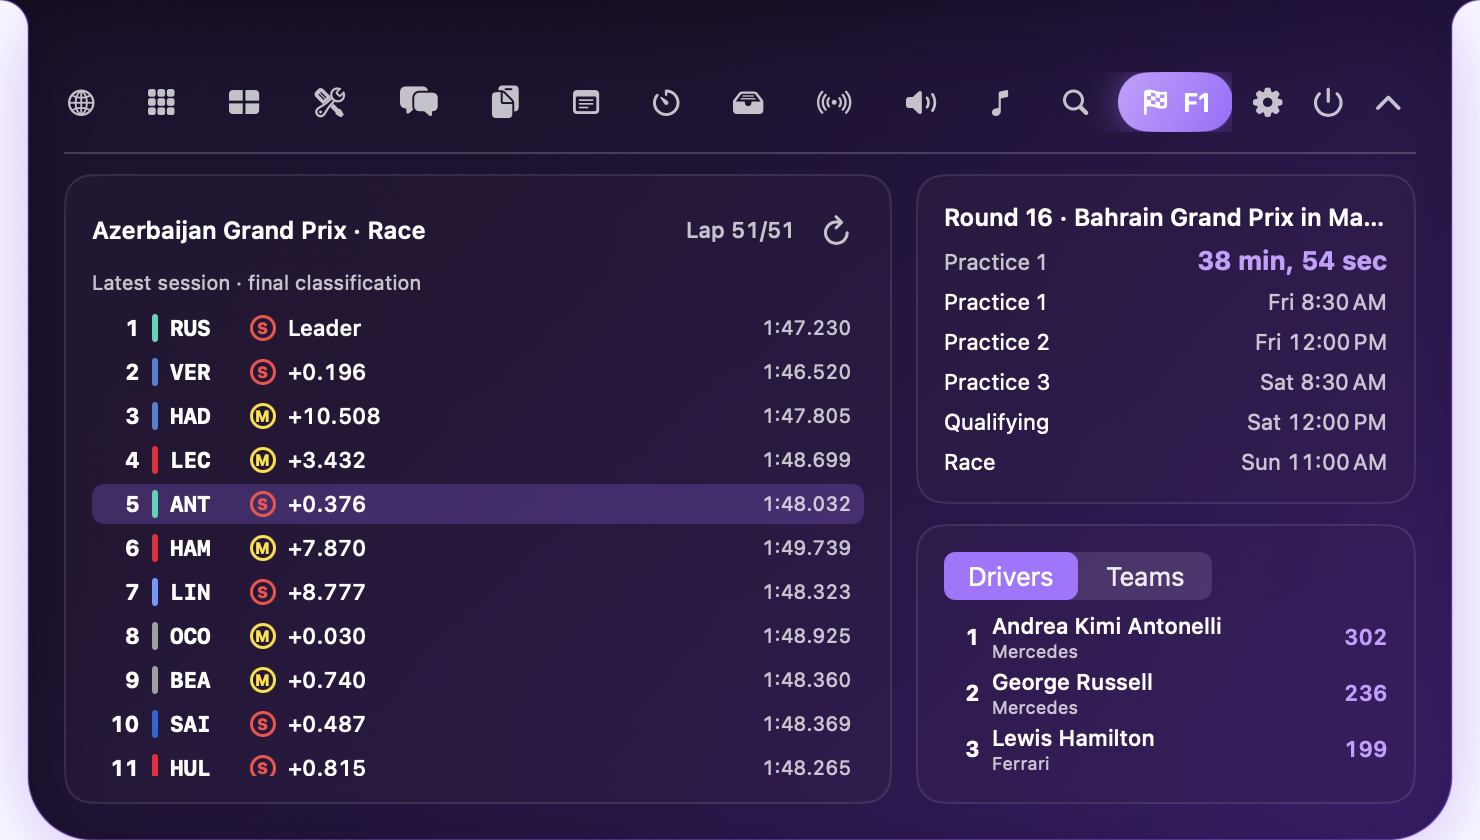
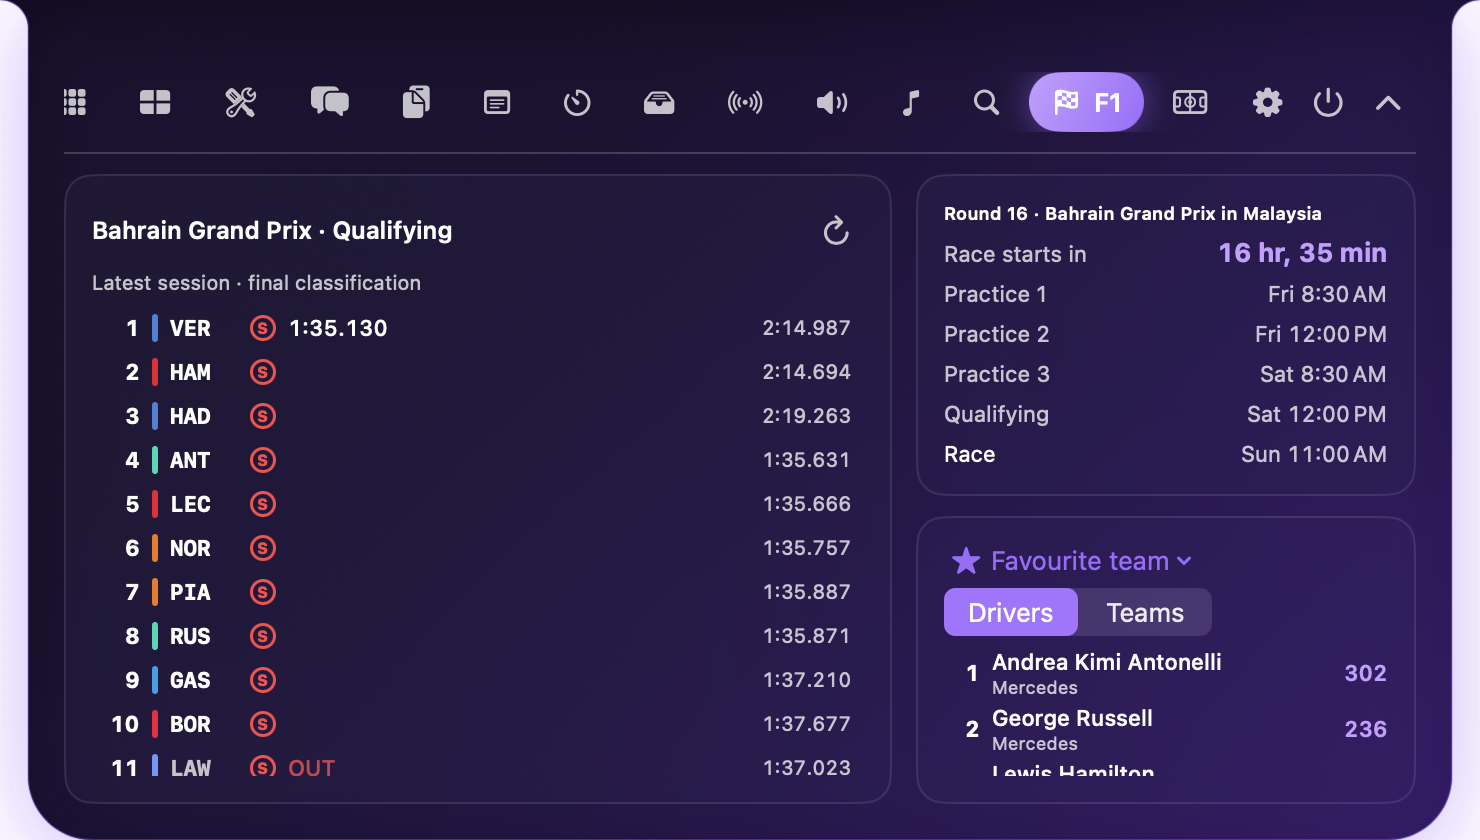
Repeatable screenshots (scripts/screenshots.sh: demo build, local Ollama answers, app windows only); demo hooks for the screenshot build; F1 qualifying gaps and best laps, no PIT after a session; inline display math

diff --git a/NotchApple/Core/DemoHooks.swift b/NotchApple/Core/DemoHooks.swift
@@ -1,0 +1,64 @@
+//
+//  DemoHooks.swift
+//  Notch apple
+//
+//  Drives the app for scripts/screenshots.sh. It only does anything in the
+//  screenshot build (bundle ID com.notchapple.demo, with its own throwaway
+//  data folder); in the real app every hook is ignored.
+//
+//  Launch arguments (all optional):
+//    -openNotch <module>        open the notch on a tab (claude, f1, …)
+//    -openSettings <pane>       open a Settings pane (claude, aiHistory, license, …)
+//    -demoInput <file>          use an image or PDF as the AI input
+//    -demoText <text>           use text as the AI input
+//    -demoRun <mode>            run a mode on the input (solve, explain, code…)
+//    -demoFollowUp <question>   ask a follow-up once the first answer is done
+//    -demoOverlay <file>        show the capture overlay over this image (not the real screen)
+//    -demoSelection x,y,w,h     with -demoOverlay, a selection in points from the top-left
+//
+
+import AppKit
+import Combine
+
+@MainActor
+enum DemoHooks {
+    static var isDemo: Bool { Bundle.main.bundleIdentifier == "com.notchapple.demo" }
+
+    private static var watcher: AnyCancellable?
+
+    static func run() {
+        guard isDemo else { return }
+        let d = UserDefaults.standard
+        DispatchQueue.main.asyncAfter(deadline: .now() + 1.5) {
+            if let pane = d.string(forKey: "openSettings").flatMap(SettingsTab.init(rawValue:)) {
+                AppDelegate.openSettingsWindow(tab: pane)
+            }
+            if let path = d.string(forKey: "demoOverlay"), let image = NSImage(contentsOfFile: path)?
+                .cgImage(forProposedRect: nil, context: nil, hints: nil), let screen = NSScreen.main {
+                let parts = (d.string(forKey: "demoSelection") ?? "").split(separator: ",").compactMap { Double($0) }
+                let sel = parts.count == 4 ? NSRect(x: parts[0], y: screen.frame.height - parts[1] - parts[3], width: parts[2], height: parts[3]) : nil
+                let window = RegionOverlayWindow(screen: screen, image: image, preset: sel) { _ in }
+                NSApp.activate(ignoringOtherApps: true)
+                window.makeKeyAndOrderFront(nil)
+                overlay = window
+            }
+            let chat = ClaudeChatModel.shared
+            if let path = d.string(forKey: "demoInput") { chat.load(file: URL(fileURLWithPath: path)) }
+            if let text = d.string(forKey: "demoText") { chat.setTextInput(text, source: "Using the text you copied") }
+            if let tab = d.string(forKey: "openNotch").flatMap(Module.init(rawValue:)) { AppDelegate.showNotch(tab: tab) }
+            if let mode = d.string(forKey: "demoRun").flatMap(AIMode.init(rawValue:)) {
+                DispatchQueue.main.asyncAfter(deadline: .now() + 1.5) { chat.run(mode) }
+                if let follow = d.string(forKey: "demoFollowUp") {
+                    var sawSending = false
+                    watcher = chat.$isSending.sink { sending in
+                        if sending { sawSending = true; return }
+                        guard sawSending, chat.messages.count == 2 else { return }
+                        DispatchQueue.main.asyncAfter(deadline: .now() + 0.5) { chat.send(follow) }
+                    }
+                }
+            }
+        }
+    }
+
+    private static var overlay: NSWindow?
+}

diff --git a/NotchApple/Modules/F1/F1Model.swift b/NotchApple/Modules/F1/F1Model.swift
@@ -266,16 +266,24 @@ final class F1Model: ObservableObject {
                 ?? (((stints[number]?["Stints"] as? [String: [String: Any]]).flatMap { s in s.keys.compactMap(Int.init).max().flatMap { s[String($0)] } })?["Compound"] as? String)
                 ?? ""
             // Races show the gap to the leader; practice and qualifying the gap to the fastest lap.
-            let gap = value(l["GapToLeader"]).isEmpty ? value(l["TimeDiffToFastest"]) : value(l["GapToLeader"])
-            let interval = value(l["IntervalToPositionAhead"]).isEmpty ? value(l["TimeDiffToPositionAhead"]) : value(l["IntervalToPositionAhead"])
+            var gap = value(l["GapToLeader"]).isEmpty ? value(l["TimeDiffToFastest"]) : value(l["GapToLeader"])
+            var interval = value(l["IntervalToPositionAhead"]).isEmpty ? value(l["TimeDiffToPositionAhead"]) : value(l["IntervalToPositionAhead"])
+            var best = value(l["BestLapTime"])
+            // Qualifying keeps one set per part (Q1, Q2, Q3): use the latest part this driver set a time in.
+            if let stats = l["Stats"] as? [[String: Any]], let parts = l["BestLapTimes"] as? [[String: Any]],
+               let part = parts.indices.last(where: { !(parts[$0]["Value"] as? String ?? "").isEmpty }), part < stats.count {
+                gap = stats[part]["TimeDiffToFastest"] as? String ?? gap
+                interval = stats[part]["TimeDifftoPositionAhead"] as? String ?? interval
+                best = parts[part]["Value"] as? String ?? best
+            }
             return Car(number: number, position: pos,
                        code: d["Tla"] as? String ?? number,
                        team: d["TeamName"] as? String ?? "",
                        colour: Color(hex: d["TeamColour"] as? String ?? "888888"),
                        gap: gap, interval: interval,
-                       lastLap: value(l["LastLapTime"]), bestLap: value(l["BestLapTime"]),
+                       lastLap: value(l["LastLapTime"]), bestLap: best,
                        tyre: tyre, laps: l["NumberOfLaps"] as? Int ?? 0, pits: l["NumberOfPitStops"] as? Int ?? 0,
-                       inPit: l["InPit"] as? Bool ?? false,
+                       inPit: isLive && (l["InPit"] as? Bool ?? false),   // after a session every car is "in the pit"
                        out: (l["Retired"] as? Bool ?? false) || (l["Stopped"] as? Bool ?? false) || (l["KnockedOut"] as? Bool ?? false))
         }.sorted { $0.position < $1.position }
         LiveActivityCenter.shared.recompute()

diff --git a/NotchApple/Modules/F1/F1View.swift b/NotchApple/Modules/F1/F1View.swift
@@ -70,11 +70,13 @@ struct F1View: View {
             RoundedRectangle(cornerRadius: 1.5).fill(c.colour).frame(width: 3, height: 14)
             Text(c.code).font(.system(size: 11, weight: .bold, design: .monospaced)).foregroundStyle(c.out ? Theme.textSecondary : .white).frame(width: 34, alignment: .leading)
             tyre(c.tyre)
-            Text(f1.orderOnly ? c.team : c.out ? "OUT" : c.inPit ? "PIT" : (c.position == 1 ? (f1.sessionType == "Race" ? "Leader" : c.bestLap) : (f1.sessionType == "Race" ? c.interval : c.gap)))
+            Text(f1.orderOnly ? c.team : c.out ? "OUT" : c.inPit ? "PIT" : (c.position == 1 ? (f1.sessionType == "Race" ? "Leader" : "Fastest") : (f1.sessionType == "Race" ? c.interval : c.gap)))
                 .font(.system(size: 11, weight: .medium).monospacedDigit())
                 .foregroundStyle(c.inPit ? .yellow : c.out ? .red.opacity(0.8) : .white)
                 .frame(maxWidth: .infinity, alignment: .leading)
-            Text(c.lastLap.isEmpty ? c.bestLap : c.lastLap).font(.system(size: 10).monospacedDigit()).foregroundStyle(Theme.textSecondary)
+            // Races: the last lap. Practice and qualifying: the best lap, which is what decides the order.
+            Text(f1.sessionType == "Race" ? (c.lastLap.isEmpty ? c.bestLap : c.lastLap) : (c.bestLap.isEmpty ? c.lastLap : c.bestLap))
+                .font(.system(size: 10).monospacedDigit()).foregroundStyle(Theme.textSecondary)
         }
         .padding(.horizontal, 6).padding(.vertical, 3)
         .background(followed ? Theme.accent.opacity(0.25) : .clear, in: RoundedRectangle(cornerRadius: 6))

diff --git a/NotchApple/Modules/Claude/CaptureManager.swift b/NotchApple/Modules/Claude/CaptureManager.swift
@@ -185,13 +185,14 @@ final class CaptureManager {
 
 /// A borderless window over one display showing the frozen screenshot; drag to select.
 final class RegionOverlayWindow: NSWindow {
-    init(screen: NSScreen, image: CGImage, done: @escaping (CGImage?) -> Void) {
+    init(screen: NSScreen, image: CGImage, preset: NSRect? = nil, done: @escaping (CGImage?) -> Void) {
         super.init(contentRect: screen.frame, styleMask: .borderless, backing: .buffered, defer: false)
         level = .screenSaver
         isOpaque = true
         hasShadow = false
         collectionBehavior = [.canJoinAllSpaces, .fullScreenAuxiliary, .stationary, .ignoresCycle]
         let view = RegionSelectView(frame: NSRect(origin: .zero, size: screen.frame.size), image: image, done: done)
+        if let preset { view.preset(preset) }
         contentView = view
         setFrame(screen.frame, display: true)
         makeFirstResponder(view)
@@ -213,6 +214,13 @@ final class RegionSelectView: NSView {
         setAccessibilityLabel("Drag to select part of the screen. Press Escape to cancel.")
     }
     required init?(coder: NSCoder) { fatalError() }
+
+    /// Shows a selection without dragging (used by the screenshot script).
+    func preset(_ rect: NSRect) {
+        start = rect.origin
+        current = NSPoint(x: rect.maxX, y: rect.maxY)
+        needsDisplay = true
+    }
 
     override var acceptsFirstResponder: Bool { true }
     override func acceptsFirstMouse(for event: NSEvent?) -> Bool { true }

diff --git a/NotchApple/Modules/Claude/MathText.swift b/NotchApple/Modules/Claude/MathText.swift
@@ -71,7 +71,8 @@ enum MathText {
 
     /// Replaces inline $…$ and \(…\) math inside a line of Markdown.
     static func inline(_ line: String) -> String {
-        var s = replace(line, #"\\\((.+?)\\\)"#) { readable($0[1]) }
+        var s = replace(line, #"\$\$(.+?)\$\$"#) { readable($0[1]) }   // display math written mid-sentence
+        s = replace(s, #"\\\((.+?)\\\)"#) { readable($0[1]) }
         // Pandoc's rule: no space just inside the dollars and no digit right after, so "$5 and $10" stays money.
         s = replace(s, #"(?<![\\$])\$(?![\s$])([^$\n]+?)(?<!\s)\$(?!\d)"#) { readable($0[1]) }
         return s

diff --git a/NotchAppleTests/LogicTests.swift b/NotchAppleTests/LogicTests.swift
@@ -31,6 +31,7 @@ final class MathTextTests: XCTestCase {
         XCTAssertEqual(MathText.inline("So $x^2 = 4$ here"), "So x² = 4 here")
         XCTAssertEqual(MathText.inline("It costs $5 and $10 today"), "It costs $5 and $10 today")
         XCTAssertEqual(MathText.inline(#"Then \(a+b\)"#), "Then a+b")
+        XCTAssertEqual(MathText.inline("so $$x^2 = 4$$ has two"), "so x² = 4 has two")
     }
 
     func testBlocks() {

diff --git a/NotchApple/App/AppDelegate.swift b/NotchApple/App/AppDelegate.swift
@@ -38,6 +38,7 @@ final class AppDelegate: NSObject, NSApplicationDelegate {
             .store(in: &cancellables)
         SystemHUDObserver.shared.start()
         WhatsNew.noteLaunch()
+        DemoHooks.run()
         applyMediaKeyPreference()
         // Accessibility may be granted later; keep trying quietly until the tap is running.
         Timer.scheduledTimer(withTimeInterval: 10, repeats: true) { timer in

diff --git a/scripts/screenshot-inputs/make_inputs.py b/scripts/screenshot-inputs/make_inputs.py
@@ -1,0 +1,47 @@
+"""Sample inputs for scripts/screenshots.sh (rendered locally, no personal data)."""
+from PIL import Image, ImageDraw, ImageFont
+import os
+HERE = os.path.dirname(os.path.abspath(__file__))
+def font(size, mono=False, bold=False):
+    for p in (["/System/Library/Fonts/SFNSMono.ttf", "/System/Library/Fonts/Menlo.ttc"] if mono else
+              ["/System/Library/Fonts/SFNS.ttf", "/System/Library/Fonts/Helvetica.ttc"]):
+        if os.path.exists(p):
+            try: return ImageFont.truetype(p, size, index=1 if bold and p.endswith(".ttc") else 0)
+            except Exception: pass
+    return ImageFont.load_default()
+
+# 1. A maths worksheet question.
+im = Image.new("RGB", (1200, 520), "#fbfaf7"); d = ImageDraw.Draw(im)
+d.text((70, 60), "Algebra · Worksheet 3", font=font(30), fill="#8a8580")
+d.text((70, 130), "Question 4", font=font(44, bold=True), fill="#1d1b19")
+d.text((70, 220), "Solve for x:", font=font(40), fill="#1d1b19")
+d.text((330, 205), "3x² − 12 = 0", font=font(64), fill="#1d1b19")
+d.text((70, 330), "Give all solutions and show your working.", font=font(34), fill="#4a4743")
+d.line((70, 430, 1130, 430), fill="#d9d5cf", width=3)
+im.save(os.path.join(HERE, "math.png"))
+
+# 2. Code with an error.
+im = Image.new("RGB", (1300, 640), "#1e1e24"); d = ImageDraw.Draw(im); m = font(30, mono=True)
+lines = [("def average(scores):", "#c792ea"), ("    total = 0", "#e6e6e6"), ("    for s in scores:", "#e6e6e6"),
+         ("        total += s", "#e6e6e6"), ("    return total / len(scores)", "#e6e6e6"), ("", ""),
+         ("print(average([]))", "#82aaff"), ("", ""),
+         ("Traceback (most recent call last):", "#ff6b6b"), ('  File "grades.py", line 7, in <module>', "#ff6b6b"),
+         ('  File "grades.py", line 5, in average', "#ff6b6b"), ("ZeroDivisionError: division by zero", "#ff6b6b")]
+for i, (t, c) in enumerate(lines):
+    if t: d.text((50, 40 + i * 46), t, font=m, fill=c)
+im.save(os.path.join(HERE, "code.png"))
+
+# 3. A desktop-sized "screen" for the capture overlay screenshot: a window holding the worksheet.
+W, H = 3024, 1964
+im = Image.new("RGB", (W, H), "#2b1a4a"); d = ImageDraw.Draw(im)
+for y in range(H):
+    t = y / H; d.line((0, y, W, y), fill=(int(43 + 30 * t), int(26 + 6 * t), int(74 + 40 * t)))
+d.rounded_rectangle((520, 300, 2500, 1700), radius=40, fill="#fbfaf7")
+d.rounded_rectangle((520, 300, 2500, 380), radius=40, fill="#ece9e4"); d.rectangle((520, 340, 2500, 380), fill="#ece9e4")
+for i, c in enumerate(["#ff5f57", "#febc2e", "#28c840"]): d.ellipse((560 + i * 50, 322, 590 + i * 50, 352), fill=c)
+d.text((1350, 318), "Worksheet 3.pdf", font=font(34), fill="#6b6762")
+ws = Image.open(os.path.join(HERE, "math.png")).resize((1800, 780))
+im.paste(ws, (610, 470))
+d.text((640, 1330), "Question 5    Factorise  x² + 5x + 6", font=font(52), fill="#1d1b19")
+im.save(os.path.join(HERE, "screen.png"))
+print("ok")
